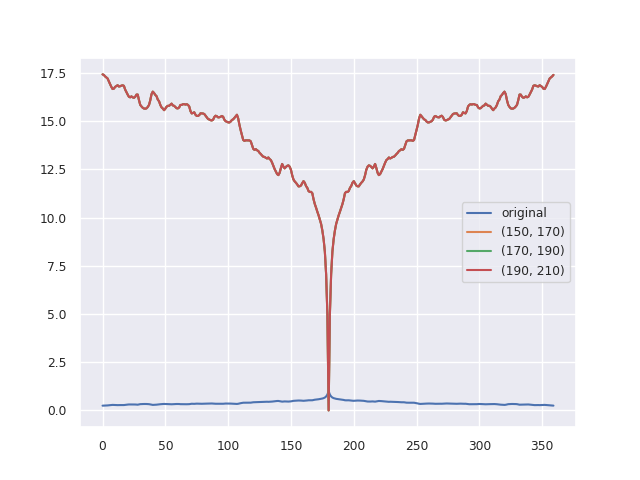
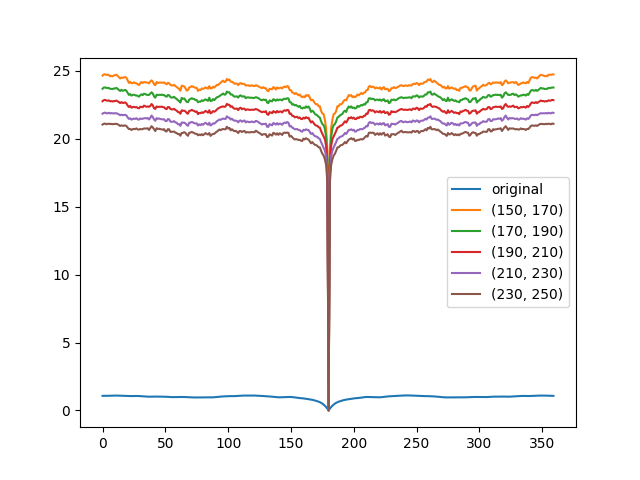
Adapted the navigation method to use the update_window function for adapting the window.

diff --git a/source/seqnav.py b/source/seqnav.py
@@ -4,7 +4,7 @@ import numpy as np
 
 class SequentialPerfectMemory:
 
-    def __init__(self, route_images, matching, deg_range=(0, 360), degree_shift=1):
+    def __init__(self, route_images, matching, deg_range=(0, 360), degree_shift=1, window=20):
         self.route_end = len(route_images)
         self.route_images = route_images
         self.deg_range = deg_range
@@ -26,7 +26,8 @@ class SequentialPerfectMemory:
 
         # Used for continous heading search
         self.mem_pointer = 0
-        self.window = 20
+        assert window > 2
+        self.window = window
 
     def get_heading(self, query_img, dynamic_window=False):
         # get the rotational similarities between a query image and a window of route images
@@ -65,22 +66,24 @@ class SequentialPerfectMemory:
 
     def update_window(self, best):
         # Dynamic window adaptation based on match gradient.
-        if best > self.prev_match or self.window < 5:
-            self.window += 1
-        elif self.window > 20:
-            self.window -= 2
+        if best > self.prev_match or self.window < 15:
+            self.window += 2
+        # elif self.window > 20:
+        #     self.window -= 2
         else:
-            self.window -= 1
+            self.window -= 2
         self.prev_match = best
+        upper = int(self.window/2)
+        lower = self.window - upper
+        return upper, lower
 
-    def navigate(self, query_imgs, window=10, mem_pointer=0):
+    def navigate(self, query_imgs, mem_pointer=0):
         assert isinstance(query_imgs, list)
-        assert window > 2
 
-        upper = int(window/2)
-        lower = window - upper
+        upper = int(self.window/2)
+        lower = self.window - upper
         mem_pointer = upper
-        flimit = window
+        flimit = self.window
         blimit = 0
         # For every query image
         for query_img in query_imgs:
@@ -103,13 +106,16 @@ class SequentialPerfectMemory:
             # append the rsims of all window route images for that current image
             self.logs.append(wrsims)
             index = self.argminmax(wind_sims)
-            self.recovered_heading.append(wind_headings[index])
+            # self.recovered_heading.append(wind_headings[index])
+            # The heading ins the window average
+            self.recovered_heading.append(np.mean(wind_sims))
 
             # Update memory pointer
             change = index - upper
             mem_pointer += change
             self.matched_index_log.append(mem_pointer)
 
+            # Update the bounds of the window
             flimit = mem_pointer + upper
             blimit = mem_pointer - lower
             if flimit > self.route_end:
@@ -117,19 +123,13 @@ class SequentialPerfectMemory:
                 mem_pointer = self.route_end - upper
             if blimit <= 0:
                 blimit = mem_pointer
-                flimit = mem_pointer + window
+                flimit = mem_pointer + self.window
                 mem_pointer = mem_pointer + upper
             self.window_log.append([blimit, flimit])
 
-            # recovered_heading.append(sum(wind_headings)/len(wind_headings))
-            # Dynamic window adaptation based on match gradient.
-            # if best > self.prev_match or window < 5:
-            #     window += 1
-            # elif window > 20:
-            #     window -= 2
-            # else:
-            #     window -= 1
-            # self.prev_match = best
+            upper, lower = self.update_window(wind_sims[index])
+
+
             #
             # # Lower confidence of the memories depending on the match score
             # window_mean = sum(wind_sims)/len(wind_sims)

diff --git a/examples/edges-pre-proc-example.py b/examples/edges-pre-proc-example.py
@@ -1,13 +1,22 @@
-from source.utils import load_route, pre_process, r_cor_coef, display_image, rmf, cor_dist
+from source.utils import load_route, load_route_naw, pre_process, display_image, rmf, cor_dist, mae, rmse
 from matplotlib import pyplot as plt
 import matplotlib
 # matplotlib.use( 'tkagg' )
 
-_, x_inlimit, y_inlimit, world_grid_imgs, x_route, y_route, \
-                        route_heading, route_images = load_route(1)
-img_indx = 0
+# _, x_inlimit, y_inlimit, world_grid_imgs, x_route, y_route, \
+#                         route_heading, route_images = load_route(1)
+# original_img = route_images[img_indx]
 
-original_img = route_images[img_indx]
+route_id = 3
+path = '../new-antworld/exp1/route' + str(route_id) + '/'
+route = load_route_naw(path, route_id, imgs=True)
+img_indx = 98
+
+original_img = route['imgs'][img_indx]
+display_image(original_img)
+pre_proc = {'edge_range': (220, 240)}
+edges_img = pre_process(original_img, pre_proc)
+display_image(edges_img)
 
 
 fig = plt.figure()
@@ -15,11 +24,10 @@ fig = plt.figure()
 logs = rmf(original_img, original_img, matcher=cor_dist, d_range=(-180, 180), d_step=1)
 plt.plot(range(len(logs)), logs, label='original')
 
-low_bounds = list(range(150, 200, 20))
+low_bounds = list(range(150, 240, 20))
 for bound in low_bounds:
     pre_proc = {'edge_range': (bound, bound+20)}
-    keys = {'edge_range':0}
-    edges_img = pre_process([route_images[img_indx]], pre_proc, keys)[0]
+    edges_img = pre_process(original_img, pre_proc)
     logs = rmf(edges_img, edges_img, d_range=(-180, 180), d_step=1)
 
     plt.plot(range(len(logs)), logs, label=str(pre_proc['edge_range']))

diff --git a/examples/navigate-newaw-static.py b/examples/navigate-newaw-static.py
@@ -1,6 +1,7 @@
 from source.utils import load_route_naw, plot_route, angular_error, animated_window, pre_process
 from source import seqnav
 import numpy as np
+import matplotlib.pyplot as plt
 
 route_id = 3
 path = '../new-antworld/exp1/route' + str(route_id) + '/'
@@ -8,21 +9,27 @@ route = load_route_naw(path, route_id=route_id, imgs=True, query=True, max_dist=
 
 plot_route(route)
 
-window = 25
-matcher = 'corr'
-sets = {'shape': (180, 50), 'edge_range': (180, 200)}
+window = 20
+matcher = 'mae'
+sets = {'shape': (180, 50)}# , 'edge_range': (180, 200)}
 route_imgs = pre_process(route['imgs'], sets)
 test_imgs = pre_process(route['qimgs'], sets)
 
-nav = seqnav.SequentialPerfectMemory(route_imgs, matcher)
-recovered_heading, logs, window_log = nav.navigate(test_imgs, window)
+nav = seqnav.SequentialPerfectMemory(route_imgs, matcher, window=window)
+recovered_heading, logs, window_log = nav.navigate(test_imgs)
 
 traj = {'x': route['qx'], 'y': route['qy'], 'heading': recovered_heading}
 traj['heading'] = np.array(traj['heading'])
 plot_route(route, traj)
 
 errors, _ = angular_error(route, traj)
-np.mean(errors)
+print(np.mean(errors))
+
+window_log = np.array(window_log)
+
+diffs = window_log[:, 1] - window_log[:, 0]
+plt.plot(range(len(diffs)), diffs)
+plt.show()
 
 path = 'window_plots/'
 animated_window(route, window_log, path=path)

diff --git a/source/navbench.py b/source/navbench.py
@@ -105,8 +105,8 @@ class Benchmark:
                 route_imgs = pre_process(route_imgs, combo_dict)
                 # Run navigation algorithm
                 if window:
-                    nav = spm.SequentialPerfectMemory(route_imgs, matcher)
-                    recovered_heading, logs, window_log = nav.navigate(test_imgs, window)
+                    nav = spm.SequentialPerfectMemory(route_imgs, matcher, window=window)
+                    recovered_heading, logs, window_log = nav.navigate(test_imgs)
                 else:
                     nav = pm.PerfectMemory(route_imgs, matcher)
                     recovered_heading, logs = nav.navigate(test_imgs)
@@ -202,8 +202,8 @@ class Benchmark:
                 route_imgs = pre_process(route_imgs, combo_dict)
                 # Run navigation algorithm
                 if window:
-                    nav = spm.SequentialPerfectMemory(route_imgs, matcher)
-                    recovered_heading, logs, window_log = nav.navigate(test_imgs, window)
+                    nav = spm.SequentialPerfectMemory(route_imgs, matcher, window=window)
+                    recovered_heading, logs, window_log = nav.navigate(test_imgs)
                 else:
                     nav = pm.PerfectMemory(route_imgs, matcher)
                     recovered_heading, logs = nav.navigate(test_imgs)

diff --git a/examples/multi-process-example.py b/examples/multi-process-example.py
@@ -14,8 +14,8 @@ def f1(route_id):
     pre_world_grid_imgs = pre_process(world_grid_imgs, pre_proc)
     pre_route_images = pre_process(route_images, pre_proc)
 
-    nav = spm.SequentialPerfectMemory(pre_route_images, matcher)
-    recovered_heading, logs, window_log = nav.navigate(pre_world_grid_imgs, window)
+    nav = spm.SequentialPerfectMemory(pre_route_images, matcher, window=window)
+    recovered_heading, logs, window_log = nav.navigate(pre_world_grid_imgs)
 
     print(mean_degree_error(x_inlimit, y_inlimit, x_route, y_route, route_heading, recovered_heading))
 
@@ -32,8 +32,8 @@ def f2(route_id):
         pre_world_grid_imgs = pre_process(world_grid_imgs, pre_proc)
         pre_route_images = pre_process(route_images, pre_proc)
 
-        nav = spm.SequentialPerfectMemory(pre_route_images, matcher)
-        recovered_heading, logs, window_log = nav.navigate(pre_world_grid_imgs, window)
+        nav = spm.SequentialPerfectMemory(pre_route_images, matcher, window=window)
+        recovered_heading, logs, window_log = nav.navigate(pre_world_grid_imgs)
 
         # nav = pm.PerfectMemory(pre_route_images, matcher)
         # recovered_heading, logs = nav.navigate(pre_world_grid_imgs)

diff --git a/source/loop_routes_test.py b/source/loop_routes_test.py
@@ -21,8 +21,8 @@ plot_map(w, [x_route, y_route], [x_inlimit, y_inlimit], size=(15, 15),
 pre_world_grid_imgs = pre_process(world_grid_imgs, pre_proc)
 pre_route_images = pre_process(route_images, pre_proc)
 
-nav = spm.SequentialPerfectMemory(pre_route_images, matcher)
-recovered_heading, logs, window_log = nav.navigate(pre_world_grid_imgs, window)
+nav = spm.SequentialPerfectMemory(pre_route_images, matcher, window=window)
+recovered_heading, logs, window_log = nav.navigate(pre_world_grid_imgs)
 print(mean_degree_error(x_inlimit, y_inlimit, x_route, y_route, route_heading, recovered_heading))
 plot_map(w, [x_route, y_route], [x_inlimit, y_inlimit], size=(15, 15),
          route_headings=route_heading, grid_headings=recovered_heading, scale=40, zoom=(3000, 5000), save=True)

diff --git a/examples/navigate_route_example.py b/examples/navigate_route_example.py
@@ -19,8 +19,8 @@ plot_map(w, [x_route, y_route], [x_inlimit, y_inlimit], size=(15, 15),
 pre_world_grid_imgs = pre_process(world_grid_imgs, pre_proc)
 pre_route_images = pre_process(route_images, pre_proc)
 
-nav = spm.SequentialPerfectMemory(pre_route_images, matcher)
-recovered_heading, logs, window_log = nav.navigate(pre_world_grid_imgs, window)
+nav = spm.SequentialPerfectMemory(pre_route_images, matcher, window=window)
+recovered_heading, logs, window_log = nav.navigate(pre_world_grid_imgs)
 # nav = pm.PerfectMemory(pre_route_images, matcher)
 # recovered_heading, logs = nav.navigate(pre_world_grid_imgs)
 

diff --git a/Analysis/seq_heading_error_analysis.py b/Analysis/seq_heading_error_analysis.py
@@ -27,8 +27,8 @@ plot_map(w, [x_route, y_route], [x_inlimit, y_inlimit], size=(6, 6), path=img_pa
 pre_grid_imgs = pre_process(grid_imgs, pre_proc)
 pre_route_images = pre_process(route_images, pre_proc)
 
-nav = spm.SequentialPerfectMemory(pre_route_images, matcher)
-recovered_heading, logs, window_log = nav.navigate(pre_grid_imgs, window)
+nav = spm.SequentialPerfectMemory(pre_route_images, matcher, window=window)
+recovered_heading, logs, window_log = nav.navigate(pre_grid_imgs)
 # nav = pm.PerfectMemory(pre_route_images, matcher)
 # recovered_heading, logs = nav.navigate(pre_grid_imgs)
 

diff --git a/source/time-algorithms.py b/source/time-algorithms.py
@@ -18,10 +18,10 @@ for id in route_ids:  # for every route
     pre_world_grid_imgs = pre_process(world_grid_imgs, pre_proc)
     pre_route_images = pre_process(route_images, pre_proc)
 
-    nav = spm.SequentialPerfectMemory(pre_route_images, matcher)
+    nav = spm.SequentialPerfectMemory(pre_route_images, matcher, window=window)
     # Time the navigator. Start timer
     tic = timeit.default_timer()
-    nav.navigate(pre_world_grid_imgs, window)
+    nav.navigate(pre_world_grid_imgs)
     toc = timeit.default_timer()
     # End of timing
     time_complexity.append(toc-tic)

diff --git a/Analysis/idf_v_corr_analysis.py b/Analysis/idf_v_corr_analysis.py
@@ -29,8 +29,8 @@ matcher = 'corr'
 figures_path = logs_path + matcher + '/'
 check_for_dir_and_create(figures_path)
 
-nav = spm.SequentialPerfectMemory(pre_route_images, matcher)
-recovered_heading, logs, window_log = nav.navigate(pre_grid_imgs, window)
+nav = spm.SequentialPerfectMemory(pre_route_images, matcher, window=window)
+recovered_heading, logs, window_log = nav.navigate(pre_grid_imgs)
 
 print(mean_degree_error(x_inlimit, y_inlimit, x_route, y_route, route_heading, recovered_heading))
 zoom = [np.mean(x_route), np.mean(y_route)]

diff --git a/source/cbench.py b/source/cbench.py
@@ -43,7 +43,7 @@ def bench(params, route_ids):
             route_imgs = pre_process(route_imgs, combo)
             # Run navigation algorithm
             if window:
-                nav = spm.SequentialPerfectMemory(route_imgs, matcher, deg_range=(-180, 180))
+                nav = spm.SequentialPerfectMemory(route_imgs, matcher, deg_range=(-180, 180), window=window)
             else:
                 nav = pm.PerfectMemory(route_imgs, matcher, deg_range=(-180, 180))
 

diff --git a/source/utils.py b/source/utils.py
@@ -75,7 +75,6 @@ def plot_route(route, traj=None, scale=70, window=None, windex=None, save=False,
 
 
 def animated_window(route, window, path=None, scale=70, save=False, size=(10, 10)):
-    assert isinstance(window, list)
     check_for_dir_and_create(path)
     if path:
         save = True
